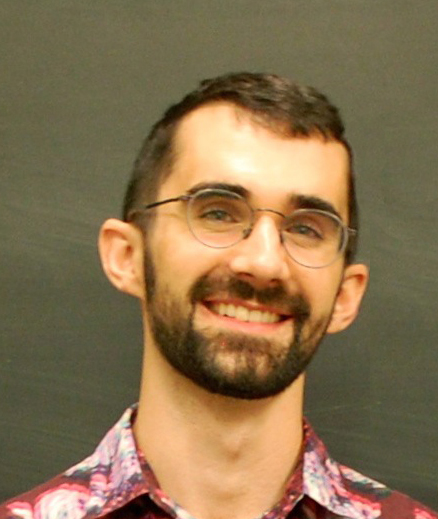
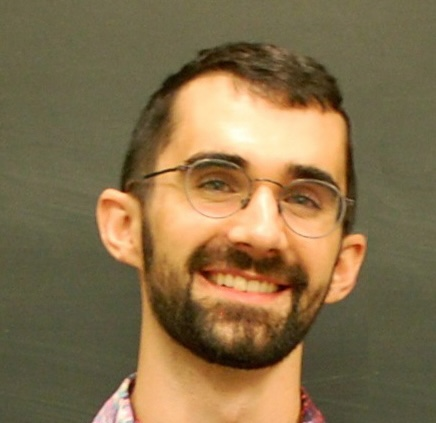
update distorted images

diff --git a/index.html b/index.html
@@ -198,8 +198,12 @@
                     <a href="https://yukimasano.github.io/">Yuki M. Asano<br>Univeristy of Amsterdam</a>
                 </div>
                 <div class="speaker">
-                    <img src="photos/yutong.png" alt="Yutong Bai">
+                    <img src="photos/yutong.jpg" alt="Yutong Bai">
                     <a href="https://yutongbai.com/">Yutong Bai<br>UC Berkeley</a>
+                </div>
+                <div class="speaker">
+                    <img src="photos/xinlei.jpeg" alt="Xinlei Chen">
+                    <a href="https://xinleic.xyz/">Xinlei Chen<br>Meta AI</a>
                 </div>
                 <div class="speaker">
                     <img src="photos/olivierhenaff.jpg" alt="Olivier J. Hénaff">
@@ -209,10 +213,7 @@
                     <img src="photos/osimeoni.jpg" alt="Oriane Siméoni">
                     <a href="https://osimeoni.github.io/">Oriane Siméoni<br>valeo.ai</a>
                 </div>
-                <div class="speaker">
-                    <div class="placeholder"></div>
-                    <a href="#">TBD<br></a>
-                </div>
+ 
                 <div class="speaker">
                     <div class="placeholder"></div>
                     <a href="#">TBD<br></a>
